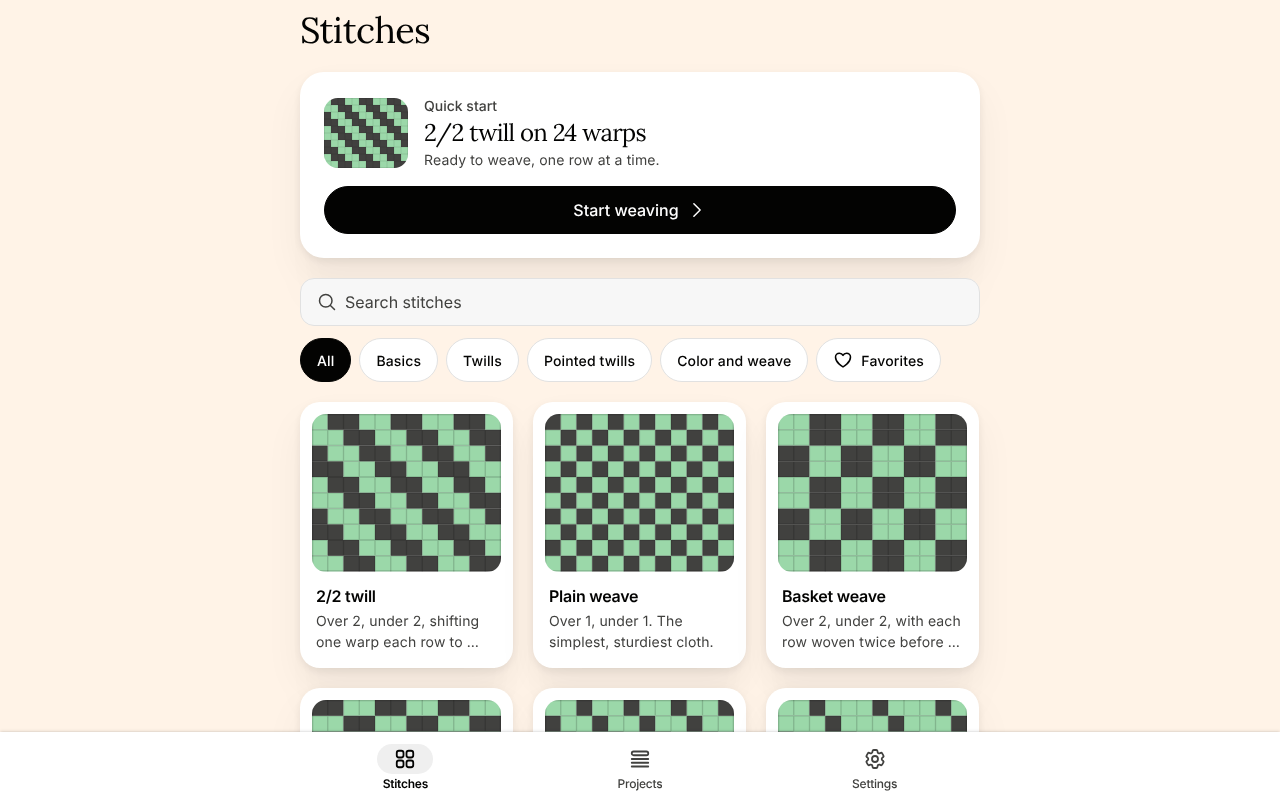
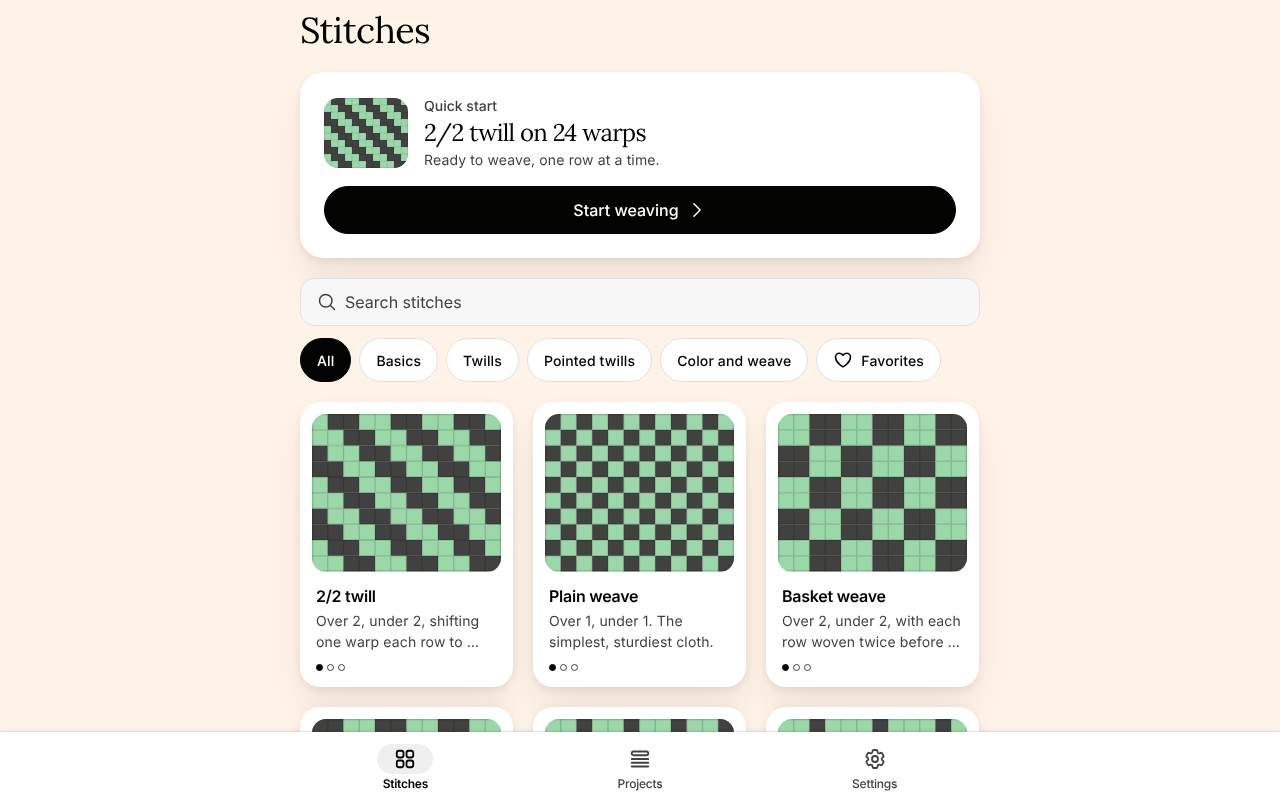
Label difficulty on stitch pages; clearer colour order for two-colour stitches
Stitch detail shows Difficulty with a word (Beginner, Intermediate,
Advanced); library cards keep their dots. A new ColorOrder component
draws one repeat of the warp and weft in the yarn colours, with
grouped wording (e.g. 6 threads alternating Color A and Color B,
starting with A), on the stitch page and the setup sheet. Log cabin
copy says it uses two colours in both warp and weft.

Claude-Session: https://claude.ai/code/session_01Gtqg4dw1fhTRdDGf4Dddek

Changed region(s): [[0.2188, 0.8125, 0.7812, 0.9375]]

diff --git a/src/features/library/parts.tsx b/src/features/library/parts.tsx
@@ -6,14 +6,17 @@ import { TilePreview } from '@/weave';
 
 import { libraryCopy } from './copy';
 
-/** 1–3 filled dots out of 3. Decorative: `Difficulty` carries the words. */
-export function DifficultyDots({ level, size = 7 }: { level: number; size?: number }) {
+/**
+ * 1–3 filled dots out of 3. On a library card they stand alone, announced as "Difficulty n of 3";
+ * with `decorative` (inside `Difficulty`) they are hidden and the words carry the meaning.
+ */
+export function DifficultyDots({ level, size = 7, decorative = false, testID }: { level: number; size?: number; decorative?: boolean; testID?: string }) {
   const theme = useTheme();
+  const a11y = decorative
+    ? ({ accessibilityElementsHidden: true, importantForAccessibility: 'no-hide-descendants' } as const)
+    : ({ accessible: true, accessibilityRole: 'image', accessibilityLabel: libraryCopy.difficultyDots(level) } as const);
   return (
-    <View
-      accessibilityElementsHidden
-      importantForAccessibility="no-hide-descendants"
-      style={{ flexDirection: 'row', alignItems: 'center', gap: 4 }}>
+    <View testID={testID} {...a11y} style={{ flexDirection: 'row', alignItems: 'center', gap: 4 }}>
       {[1, 2, 3].map((n) => (
         <View
           key={n}
@@ -42,7 +45,7 @@ export function Difficulty({ level, testID }: { level: number; testID?: string }
       accessibilityLabel={libraryCopy.difficulty(level)}
       style={{ flexDirection: 'row', flexWrap: 'wrap', alignItems: 'center', columnGap: theme.spacing.sm, rowGap: 2 }}>
       <Text variant="label">{libraryCopy.difficultyLabel}</Text>
-      <DifficultyDots level={level} size={9} />
+      <DifficultyDots level={level} size={9} decorative />
       <Text weight="medium">{libraryCopy.difficultyName(level)}</Text>
     </View>
   );
@@ -56,7 +59,7 @@ export type StitchCardProps = {
   style?: StyleProp<ViewStyle>;
 };
 
-/** One library card: woven preview, name, two-line description, favourite heart. */
+/** One library card: woven preview, name, two-line description, difficulty dots, favourite heart. */
 export function StitchCard({ stitch, colors, favourite, onPress, style }: StitchCardProps) {
   const theme = useTheme();
   return (
@@ -76,7 +79,7 @@ export function StitchCard({ stitch, colors, favourite, onPress, style }: Stitch
         ];
       }}>
       <TilePreview stitch={stitch} colors={colors} cols={12} rows={10} style={{ borderRadius: theme.radii.field }} />
-      <View style={{ gap: 2, flex: 1, paddingHorizontal: theme.spacing.xs, paddingBottom: theme.spacing.xs }}>
+      <View style={{ gap: 2, flex: 1, paddingHorizontal: theme.spacing.xs }}>
         <View style={{ flexDirection: 'row', alignItems: 'center', gap: 6 }}>
           <Text weight="semibold" numberOfLines={1} style={{ flex: 1 }}>
             {stitch.name}
@@ -86,6 +89,9 @@ export function StitchCard({ stitch, colors, favourite, onPress, style }: Stitch
         <Text variant="hint" numberOfLines={2}>
           {stitch.desc}
         </Text>
+      </View>
+      <View style={{ paddingHorizontal: theme.spacing.xs, paddingBottom: theme.spacing.xs }}>
+        <DifficultyDots level={stitch.difficulty} />
       </View>
     </Pressable>
   );

diff --git a/src/features/library/library.test.tsx b/src/features/library/library.test.tsx
@@ -89,8 +89,7 @@ describe('LibraryScreen', () => {
     await render(<LibraryScreen />);
     const card = screen.getByTestId('stitch-card-twill22');
     expect(card.props.accessibilityLabel).toBe('2/2 twill. Over 2, under 2, shifting one warp each row to make a diagonal.');
-    // The overview has no difficulty dots.
-    expect(within(card).queryByLabelText(/Difficulty/)).toBeNull();
+    expect(within(card).getByLabelText('Difficulty 1 of 3')).toBeTruthy();
     await fireEvent.press(card);
     expect(router.push).toHaveBeenCalledWith('/stitch/twill22');
   });

diff --git a/src/features/library/copy.ts b/src/features/library/copy.ts
@@ -19,6 +19,8 @@ export const libraryCopy = {
 
   // Cards
   cardLabel: (name: string, desc: string) => `${name}. ${desc}`,
+  /** The library card's dots. */
+  difficultyDots: (n: number) => `Difficulty ${n} of 3`,
   difficultyLabel: 'Difficulty',
   difficultyName: (n: number) => (n <= 1 ? 'Beginner' : n === 2 ? 'Intermediate' : 'Advanced'),
   difficulty: (n: number) => `Difficulty: ${n <= 1 ? 'Beginner' : n === 2 ? 'Intermediate' : 'Advanced'}, ${n} of 3`,
